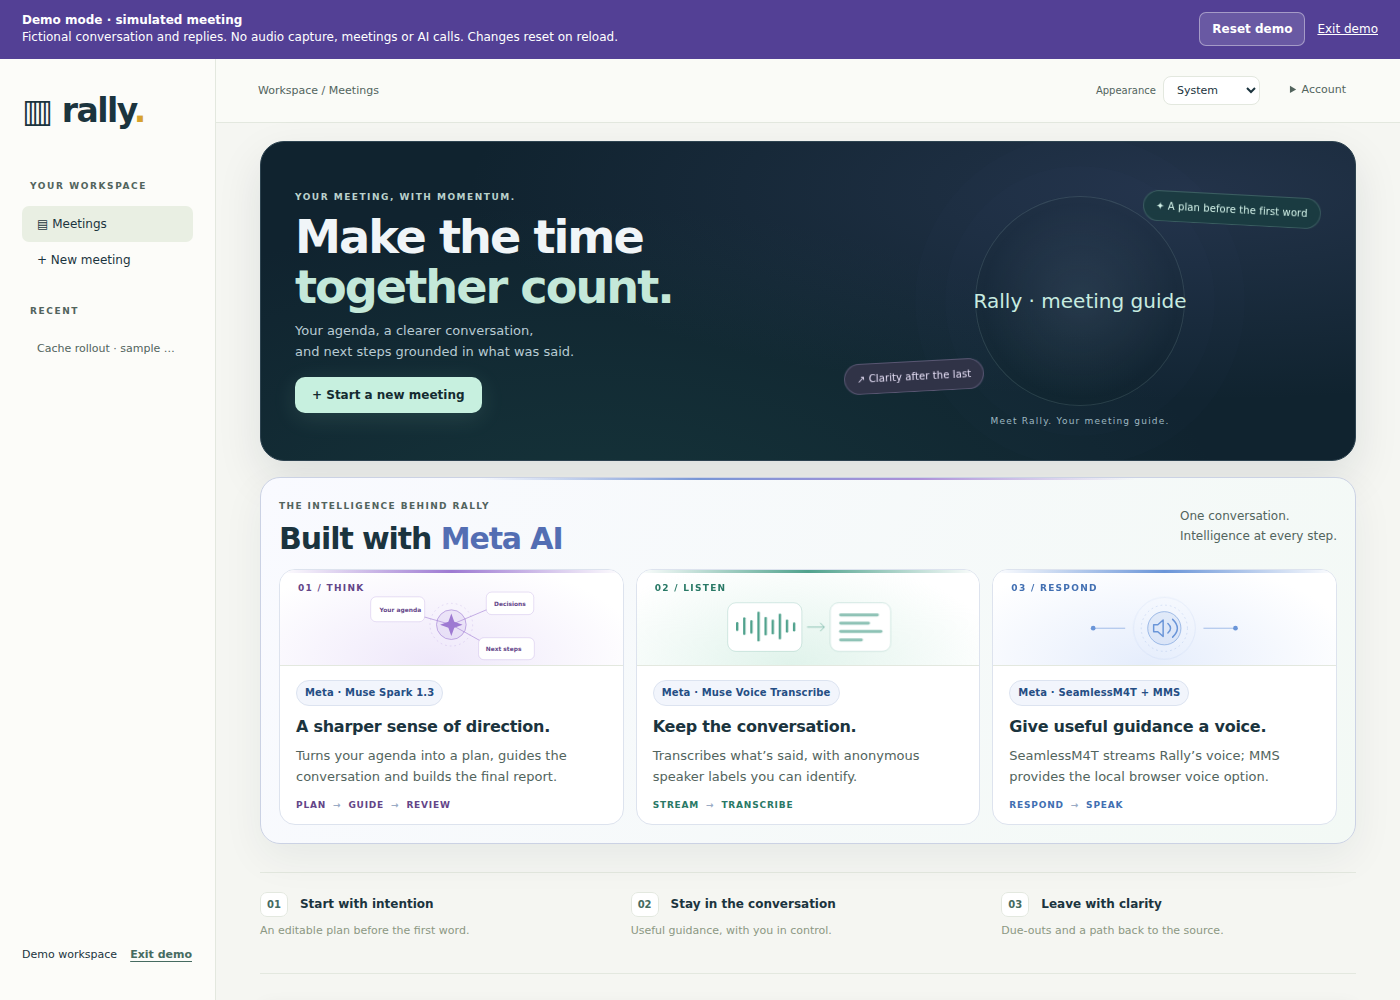
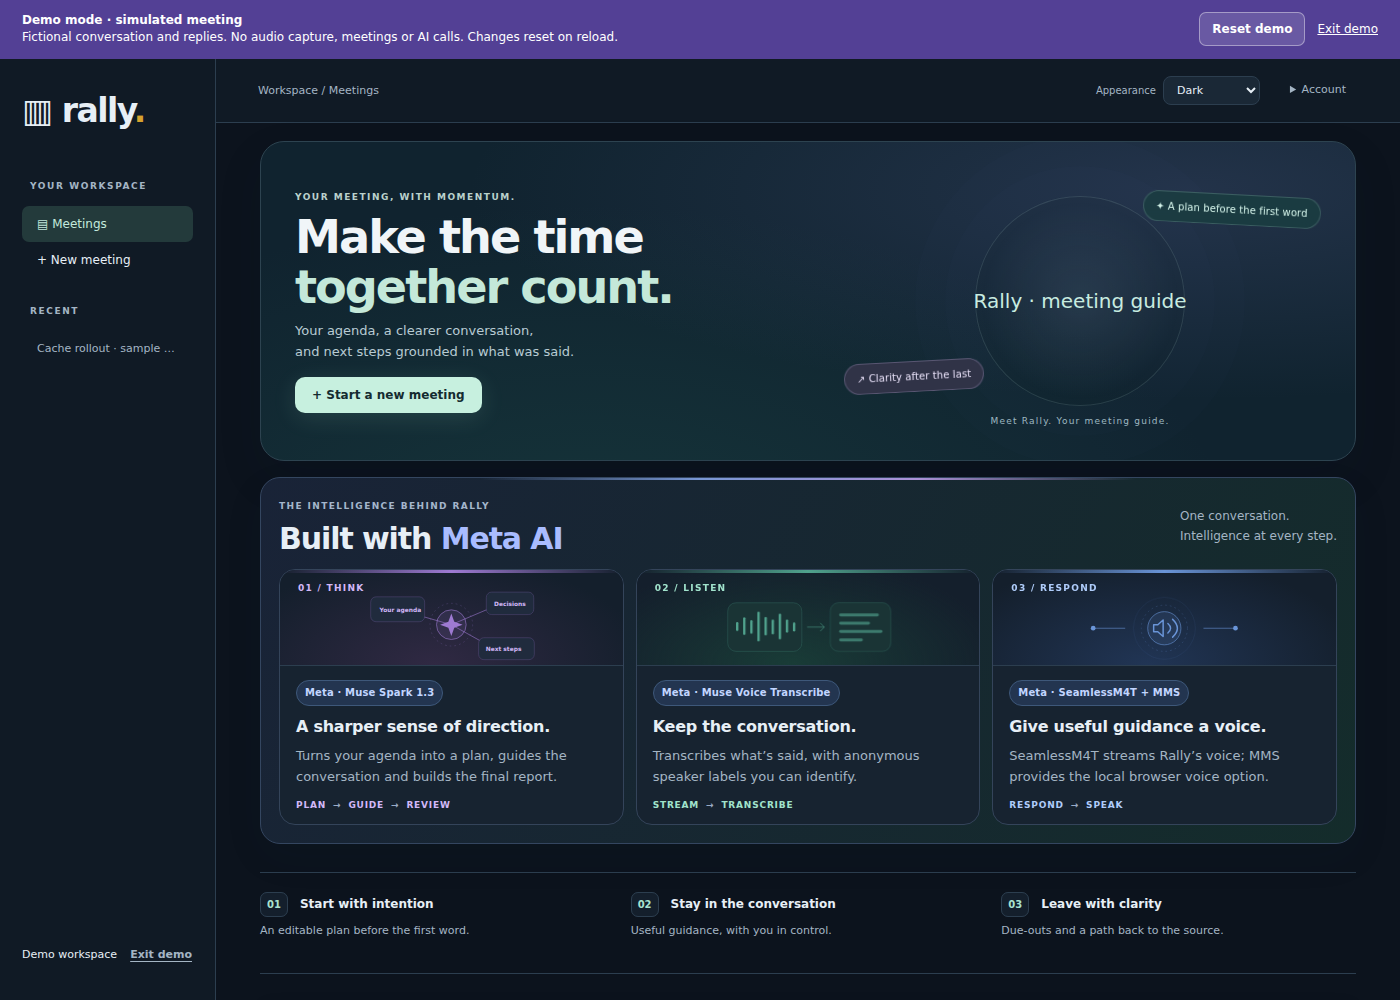
Recapture README walkthrough and still in dark mode

diff --git a/docs/handoff.md b/docs/handoff.md
@@ -210,3 +210,8 @@ Local export: Downloads/Rally Demo Edit2026-11-02/`05 - Rally - 3 Minute Demo.mp
 User explicitly requests keeping GitHub private, no package publication to Nexus, and no further demo-video improvements for now. [Repository presentation record](repository-showcase-2026-11-03.md) covers the product-first README,747KB fictional-data tour, starter/dev guides, issue/PR templates, read-only docs workflow and local verification. No dependency downloads or package publishing occurred. docs/assets/provenance.json records the synthetic capture and checksums. Existing maintainers' index is preserved as maintainer-notes.md; the main docs index is now user/developer oriented.
 
 Reported welcome-control problem on the regular site: source fix23d31f4 on fix/welcome-checkbox-visibility is merged. Dedicated18px checkbox/label row remains off by default, and previously started meetings explain why the selection is unavailable. Web typecheck,26unit tests,build and bounded fixture-browser desktop/mobile label-click/checkbox-size/join-payload checks passed. Static frontend-only promotion to `/srv/hackathon/rally-deployed/releases/23d31f4-welcome-checkbox` copied the active backend unchanged; no API restart or production DB write. Local served HTML includes the new label and API health stayed OK. Physical real-Teams welcome playback was not retested by this change. Prior release1a33198-optional-greeting remains available for rollback.
+
+
+## README dark-mode media — November 3
+
+User requested the README GIF in dark mode. Recaptured the same fictional portable sample with the actual `rally:appearance` preference set to dark and asserted `data-theme=dark` before all13screenshots. Replaced docs/assets/workspace-tour.gif and the matching still; refreshed provenance hashes. Zero external capture requests or model calls. Documentation checks passed. App code/deployment, repository visibility and numbered demo videos unchanged.

diff --git a/docs/assets/README.md b/docs/assets/README.md
@@ -1,6 +1,6 @@
 # README media
 
-`workspace-tour.gif` and `workspace-home.png` were captured from the checked-in, isolated simulated workspace. The participants, transcript, report and agenda are fictional; the workspace has no real account or meeting access. A fresh browser profile made zero external requests. No browser/desktop chrome or supplied real meeting video was used.
+`workspace-tour.gif` and `workspace-home.png` were captured in dark mode from the checked-in, isolated simulated workspace. The participants, transcript, report and agenda are fictional; the workspace has no real account or meeting access. A fresh browser profile made zero external requests. No browser/desktop chrome or supplied real meeting video was used.
 
 The GIF is a23-second edited screenshot tour with cuts and holds. It is not a live model demo or latency measurement. Its sample banner stays visible. The PNG is a still alternative for readers who prefer no animation. File hashes, source revision and capture details are in [provenance.json](provenance.json).
 
